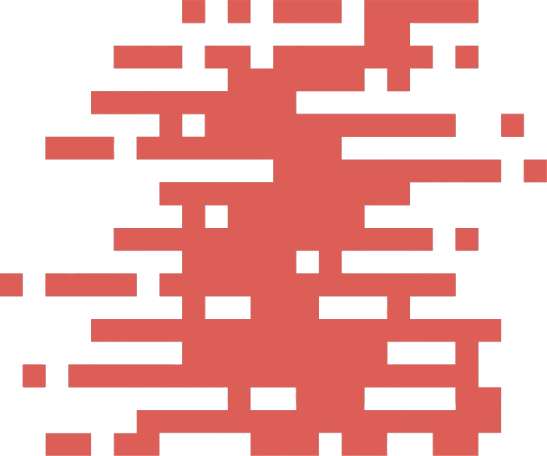
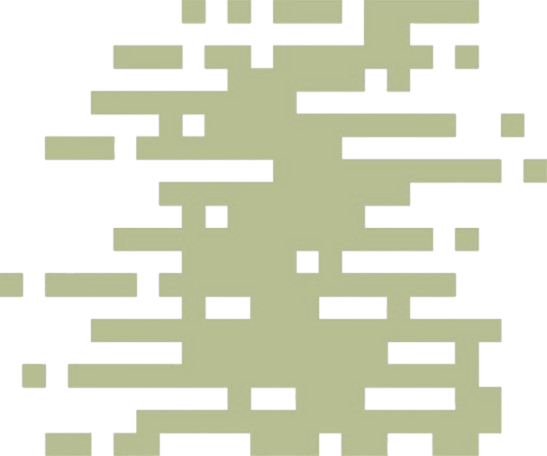
feat: change color scheme

diff --git a/src/app/page.tsx b/src/app/page.tsx
@@ -29,46 +29,48 @@ function AppPage() {
   }, []);
 
   return (
-    <Container className="bg-[#FAFAFA] min-h-dvh px-16 pt-16">
-      <div className="col-span-4 max-h-[calc(100vh-64px)] overflow-y-hidden">
-        <h1 className="font-black text-5xl">Jejenjreng</h1>
-        <p className="mt-4 text-black/60">Sampaikanlah dariku, walau hanya satu ayat</p>
-        <Image src='/assets/jeje2.png' alt="Jeje Portrait" width={1228} height={2160} className="object-contain object-left w-full h-[calc(100%-64px)] py-8 px-4" />
-      </div>
-      <div className="col-span-8 max-h-[calc(100dvh-64px)] overflow-y-auto">
-        <div className="flex items-center justify-between mb-6">
-          <h2 className="font-bold text-3xl">Upcoming Events</h2>
-          <Link href="/events" className="underline">Manage all events</Link>
+    <Container className="bg-primary px-12 pt-12">
+      <div className="grid grid-cols-12 min-h-dvh">
+        <div className="col-span-4 max-h-[calc(100vh-64px)] overflow-y-hidden">
+          <h1 className="font-black text-5xl text-secondary">Jejenjreng</h1>
+          <p className="mt-4 text-secondary/70">Sampaikanlah dariku, walau hanya satu ayat</p>
+          <Image src='/assets/jeje2.png' alt="Jeje Portrait" width={1228} height={2160} className="object-contain object-left w-full h-[calc(100%-64px)] py-8 px-8 "/>
         </div>
-        <div className="flex flex-col gap-y-6">
-          {isUpcomingEventsLoading ? (
-            <SkeletonEvent count={2} />
-          ) : (
-            <>
-              {upcomingEvents.map(event => (
-                <Event
-                  event={event}
-                  key={event.notionPageID} />
-              ))}
-            </>
-          )}
-        </div>
+        <div className="col-span-8 max-h-[calc(100dvh-64px)] overflow-y-auto">
+          <div className="flex items-center justify-between mb-6">
+            <h2 className="font-bold text-3xl text-secondary">Upcoming Events</h2>
+            <Link href="/events" className="underline text-secondary">Manage all events</Link>
+          </div>
+          <div className="flex flex-col gap-y-6">
+            {isUpcomingEventsLoading ? (
+              <SkeletonEvent count={2} />
+            ) : (
+              <>
+                {upcomingEvents.map(event => (
+                  <Event
+                    event={event}
+                    key={event.notionPageID} />
+                ))}
+              </>
+            )}
+          </div>
 
-        <div className="flex items-center justify-between mb-6 mt-10">
-          <h2 className="font-bold text-3xl">Past Events</h2>
-        </div>
-        <div className="flex flex-col gap-y-6 mb-16">
-          {isPastEventsLoading ? (
-            <SkeletonEvent count={3} />
-          ) : (
-            <>
-              {pastEvents.map(event => (
-                <Event
-                  event={event}
-                  key={event.notionPageID} />
-              ))}
-            </>
-          )}
+          <div className="flex items-center justify-between mb-6 mt-10">
+            <h2 className="font-bold text-3xl text-secondary">Past Events</h2>
+          </div>
+          <div className="flex flex-col gap-y-6 mb-16">
+            {isPastEventsLoading ? (
+              <SkeletonEvent count={3} />
+            ) : (
+              <>
+                {pastEvents.map(event => (
+                  <Event
+                    event={event}
+                    key={event.notionPageID} />
+                ))}
+              </>
+            )}
+          </div>
         </div>
       </div>
     </Container>

diff --git a/src/app/events/(event)/[slug]/[eventType]/[notionPageID]/page.tsx b/src/app/events/(event)/[slug]/[eventType]/[notionPageID]/page.tsx
@@ -180,11 +180,11 @@ function EventPage() {
   }, [isEventLoading]);
 
   return (
-    <Container className="bg-[#FAFAFA] min-h-dvh px-16 py-16">
-      <div className="col-span-12 flex flex-col">
+    <Container className="bg-primary px-12 pt-12">
+      <div className="min-v-dvh flex flex-col">
         <div className="flex items-center gap-x-1 w-fit cursor-pointer" onClick={handleBack}>
-          <ChevronLeft className="size-6" />
-          <span>Back</span>
+          <ChevronLeft className="size-6 fill-secondary" />
+          <span className="text-secondary">Back</span>
         </div>
         {isEventLoading ? (
           <>
@@ -195,27 +195,27 @@ function EventPage() {
           </>
         ) : (
           <>
-            <h1 className="font-bold text-3xl mt-6">{event.name}</h1>
+            <h1 className="font-bold text-3xl mt-6 text-secondary">{event.name}</h1>
             <div className="flex items-center gap-x-2 mt-3">
-              <Calendar className="fill-black/60 size-4" />
-              <p className="text-black/60 font-medium text-sm">{event.date}</p>
+              <Calendar className="fill-secondary size-4" />
+              <p className="text-secondary font-medium text-sm">{event.date}</p>
             </div>
             <div className="flex items-center gap-x-2 mt-2">
-              <Map className="fill-black/60 size-4" />
-              <p className="text-black/60 font-medium text-sm">{event.location}</p>
+              <Map className="fill-secondary size-4" />
+              <p className="text-secondary font-medium text-sm">{event.location}</p>
             </div>
-            <Badge className="bg-indigo-500/20 text-indigo-500 font-semibold italic self-start flex-none mt-6">{event.type}</Badge>
+            <Badge className="bg-secondary/30 text-secondary font-semibold italic self-start flex-none mt-6">{event.type}</Badge>
           </>
         )}
 
         <div className="flex justify-between mt-8 items-center">
-          <h3 className="text-xl font-bold">Orders List</h3>
+          <h3 className="text-xl font-bold text-secondary">Orders List</h3>
           <div className="flex items-center gap-x-4">
-            <Search className="fill-black size-6 cursor-pointer" />
-            <Filter className="fill-black size-6 cursor-pointer" onClick={toggleFilter} />
+            <Search className="fill-secondary size-6 cursor-pointer" />
+            <Filter className="fill-secondary size-6 cursor-pointer" onClick={toggleFilter} />
           </div>
         </div>
-        <div className="grid grid-cols-2 mt-4 gap-6">
+        <div className="grid grid-cols-2 my-4 gap-6">
           {isEventLoading || isOrderLoading || isProductsLoading ? (
             <SkeletonOrder count={6} />
           ) : (

diff --git a/src/components/cards/Event.tsx b/src/components/cards/Event.tsx
@@ -14,23 +14,23 @@ interface EventProps extends React.HTMLAttributes<HTMLDivElement> {
 
 function Event({ event, className = '' }: EventProps) {
   return (
-    <Link href={`/events/${slug(event.name)}/${slug(event.type)}/${event.notionPageID}`} className={`border border-[#C8C8C8] rounded-lg shadow-sm bg-white p-6 flex items-center gap-x-6 ${className}`}>
+    <Link href={`/events/${slug(event.name)}/${slug(event.type)}/${event.notionPageID}`} className={`rounded-lg shadow-md bg-secondary-lighter p-6 flex items-center gap-x-6 ${className}`}>
       {event.type === 'Pickup' ? (
-        <Box className="p-4 size-14 fill-red-500/80 box-border rounded-full bg-red-500/10 flex-none" />
+        <Box className="p-4 size-14 fill-primary/80 box-border rounded-full bg-primary/15 flex-none" />
       ) : (
-        <Truck className="p-4 size-14 fill-blue-500/80 box-border rounded-full bg-blue-500/10 flex-none" />
+        <Truck className="p-4 size-14 fill-primary/80 box-border rounded-full bg-primary/15 flex-none" />
       )}
       <div className="grow self-start">
         <div className="flex justify-between">
           <div>
-            <h3 className="font-bold text-xl">{event.name}</h3>
+            <h3 className="font-extrabold text-xl text-primary">{event.name}</h3>
             <div className="flex items-center gap-x-2 mt-2">
-              <Calendar className="fill-black/50 size-4 flex-none" />
-              <p className="text-black/50 font-medium text-sm">{event.date}</p>
+              <Calendar className="fill-primary-light size-4 flex-none" />
+              <p className="text-primary-light font-medium text-sm">{event.date}</p>
             </div>
             <div className="flex items-center gap-x-2 mt-1">
-              <Map className="fill-black/50 size-4 flex-none" />
-              <p className="text-black/50 font-medium text-sm">{event.location}</p>
+              <Map className="fill-primary-light size-4 flex-none" />
+              <p className="text-primary-light font-medium text-sm">{event.location}</p>
             </div>
           </div>
           <Badge className="bg-indigo-500/20 text-indigo-500 font-semibold italic self-start flex-none">{event.type}</Badge>

diff --git a/src/components/cards/Order.tsx b/src/components/cards/Order.tsx
@@ -55,23 +55,23 @@ function Order({ order }: OrderProps) {
   }
 
   return (
-    <div className={`border border-[#C8C8C8] rounded-lg shadow-sm bg-white p-6 flex flex-col gap-x-6 relative overflow-hidden`}>
+    <div className={`rounded-lg shadow-md bg-secondary-lighter p-6 flex flex-col gap-x-6 relative overflow-hidden`}>
       <div className="relative flex justify-between grow">
         <div>
-          <h3 className="font-bold text-lg">{order.customer}</h3>
-          <p className="text-sm text-black/40">placed order at {order.timestamp}</p>
+          <h3 className="font-bold text-lg text-primary">{order.customer}</h3>
+          <p className="text-sm text-primary-light">placed order at {order.timestamp}</p>
 
           <div className="flex items-center gap-x-2 mt-4">
-            <Envelope className="fill-black/60 size-4 flex-none" />
-            <p className="text-black/60 text-sm">{order.email}</p>
+            <Envelope className="fill-primary-light size-4 flex-none" />
+            <p className="text-primary-light text-sm">{order.email}</p>
           </div>
           <div className="flex items-center gap-x-2 mt-2">
-            <Phone className="fill-black/60 size-4 flex-none" />
-            <p className="text-black/60 text-sm">{order.phoneNumber}</p>
+            <Phone className="fill-primary-light size-4 flex-none" />
+            <p className="text-primary-light text-sm">{order.phoneNumber}</p>
           </div>
           <div className="flex items-center gap-x-2 mt-2">
-            <Map className="fill-black/60 size-4 flex-none" />
-            <p className="text-black/60 text-sm">{order.address}</p>
+            <Map className="fill-primary-light size-4 flex-none" />
+            <p className="text-primary-light text-sm">{order.address}</p>
           </div>
         </div>
 

diff --git a/src/utils/spreadsheets/Order.ts b/src/utils/spreadsheets/Order.ts
@@ -72,7 +72,7 @@ async function getOrder({ spreadsheetID, eventType, rowNo }: OrderParams) {
 
   const order: IOrder = {
     rowNo: row.rowNumber,
-    timestamp: dayjs(dataObject[dataKeys[ColumnIndex.TIMESTAMP]].split(']')[1], ['DD/MM/YYYY HH:mm:ss', 'D/M/YYYY HH:mm:ss', 'MM/DD/YYYY HH:mm:ss', 'M/D/YYYY HH:mm:ss']).format('YYYY-MM-DD HH:mm:ss'),
+    timestamp: dayjs(dataObject[dataKeys[ColumnIndex.TIMESTAMP]].split(']')[1], ['DD/MM/YYYY H:mm:ss', 'D/M/YYYY H:mm:ss', 'MM/DD/YYYY H:mm:ss', 'M/D/YYYY H:mm:ss'], true).format('YYYY-MM-DD HH:mm:ss'),
     status: dataObject[dataKeys[ColumnIndex.TIMESTAMP]].split(']')[0].replace('[', ''),
     customer: dataObject[dataKeys[ColumnIndex.NAME]],
     email: dataObject[dataKeys[ColumnIndex.EMAIL]],
@@ -129,7 +129,7 @@ async function getOrders({ spreadsheetID, eventType }: OrderParams) {
 
     return {
       rowNo: row.rowNumber,
-      timestamp: dayjs(dataObject[dataKeys[ColumnIndex.TIMESTAMP]].split(']')[1], ['DD/MM/YYYY HH:mm:ss', 'D/M/YYYY HH:mm:ss', 'MM/DD/YYYY HH:mm:ss', 'M/D/YYYY HH:mm:ss']).format('YYYY-MM-DD HH:mm:ss'),
+      timestamp: dayjs(dataObject[dataKeys[ColumnIndex.TIMESTAMP]].split(']')[1], ['DD/MM/YYYY H:mm:ss', 'D/M/YYYY H:mm:ss', 'MM/DD/YYYY H:mm:ss', 'M/D/YYYY H:mm:ss'], true).format('YYYY-MM-DD HH:mm:ss'),
       status: dataObject[dataKeys[ColumnIndex.TIMESTAMP]].split(']')[0].replace('[', ''),
       customer: dataObject[dataKeys[ColumnIndex.NAME]],
       email: dataObject[dataKeys[ColumnIndex.EMAIL]],

diff --git a/src/app/events/(events)/page.tsx b/src/app/events/(events)/page.tsx
@@ -29,14 +29,14 @@ function EventsPage() {
   }, []);
 
   return (
-    <Container className="bg-[#FAFAFA] min-h-dvh px-16 py-16">
-      <div className="col-span-12">
+    <Container className="bg-primary px-12 pt-12">
+      <div className="min-h-dvh">
         <div className="flex items-center gap-x-1 w-fit cursor-pointer" onClick={handleBack}>
-          <ChevronLeft className="size-6" />
-          <span>Back</span>
+          <ChevronLeft className="size-6 fill-secondary" />
+          <span className="text-secondary">Back</span>
         </div>
-        <h1 className="font-bold text-3xl mt-6">All Events</h1>
-        <p className="mt-2">New events can be added from Notion</p>
+        <h1 className="font-bold text-3xl mt-6 text-secondary">All Events</h1>
+        <p className="mt-2 text-secondary/70">New events can be added from Notion</p>
 
         <div className="grid grid-cols-2 mt-6 gap-6">
           {isLoading ? (

diff --git a/src/components/skeletons/SkeletonEvent.tsx b/src/components/skeletons/SkeletonEvent.tsx
@@ -7,7 +7,7 @@ interface SkeletonEventProps extends React.HTMLAttributes<HTMLDivElement> {
 function SkeletonEvent({ className = '', count = 1 }: SkeletonEventProps) {
   return (
     Array.from({ length: count }).map((_, index) => (
-      <div className={`border border-[#C8C8C8] rounded-lg shadow-sm bg-white p-6 flex items-center gap-x-6 animate-pulse ${className}`} key={index}>
+      <div className={`rounded-lg shadow-sm bg-secondary-lighter p-6 flex items-center gap-x-6 animate-pulse ${className}`} key={index}>
         <Skeleton className="size-14 p-4 box-border flex-none" />
         <div className="grow self-start">
           <div className="flex justify-between">

diff --git a/src/components/skeletons/SkeletonOrder.tsx b/src/components/skeletons/SkeletonOrder.tsx
@@ -7,7 +7,7 @@ interface SkeletonOrderProps extends React.HTMLAttributes<HTMLDivElement> {
 function SkeletonOrder({ className = '', count = 1 }: SkeletonOrderProps) {
   return (
     Array.from({ length: count }).map((_, index) => (
-      <div className={`border border-[#C8C8C8] rounded-lg shadow-sm bg-white p-6 flex flex-col gap-x-6 ${className}`} key={index}>
+      <div className={`rounded-lg shadow-md bg-secondary-lighter animate-pulse p-6 flex flex-col gap-x-6 ${className}`} key={index}>
         <div className="flex justify-between">
           <div className="w-full">
             <Skeleton className="h-6 w-36" />

diff --git a/src/app/globals.css b/src/app/globals.css
@@ -4,6 +4,14 @@
 @theme {
   --font-shrikhand: 'Shrikhand', sans-serif;
   --font-hammersmith-one: 'Hammersmith One', sans-serif;
+
+  --color-primary: #19286E;
+  --color-primary-light: #6388A3;
+  --color-secondary-dark: #A3AB77;
+  --color-secondary: #CDD796;
+  --color-secondary-light: #EBEAD5;
+  --color-secondary-lighter: #FDF6F4;
+  --color-tertiary: #CBF000;
 }
 
 @layer base {

diff --git a/src/components/Container.tsx b/src/components/Container.tsx
@@ -2,8 +2,10 @@ interface ContainerProps extends React.HTMLAttributes<HTMLDivElement> {};
 
 function Container({ className = '', children }: ContainerProps) {
   return (
-    <div className={`grid grid-cols-12 ${className}`}>
-      {children}
+    <div className={className}>
+      <div className="mx-auto max-w-7xl">
+        {children}
+      </div>
     </div>
   )
 }

diff --git a/src/components/skeletons/Skeleton.tsx b/src/components/skeletons/Skeleton.tsx
@@ -2,7 +2,7 @@ interface SkeletonProps extends React.HTMLAttributes<HTMLDivElement> {}
 
 function Skeleton({ className = '' }: SkeletonProps) {
   return (
-    <div className={`bg-black/15 animate-pulse rounded-full ${className}`} />
+    <div className={`bg-primary-light/20 animate-pulse rounded-full ${className}`} />
   )
 }
 
